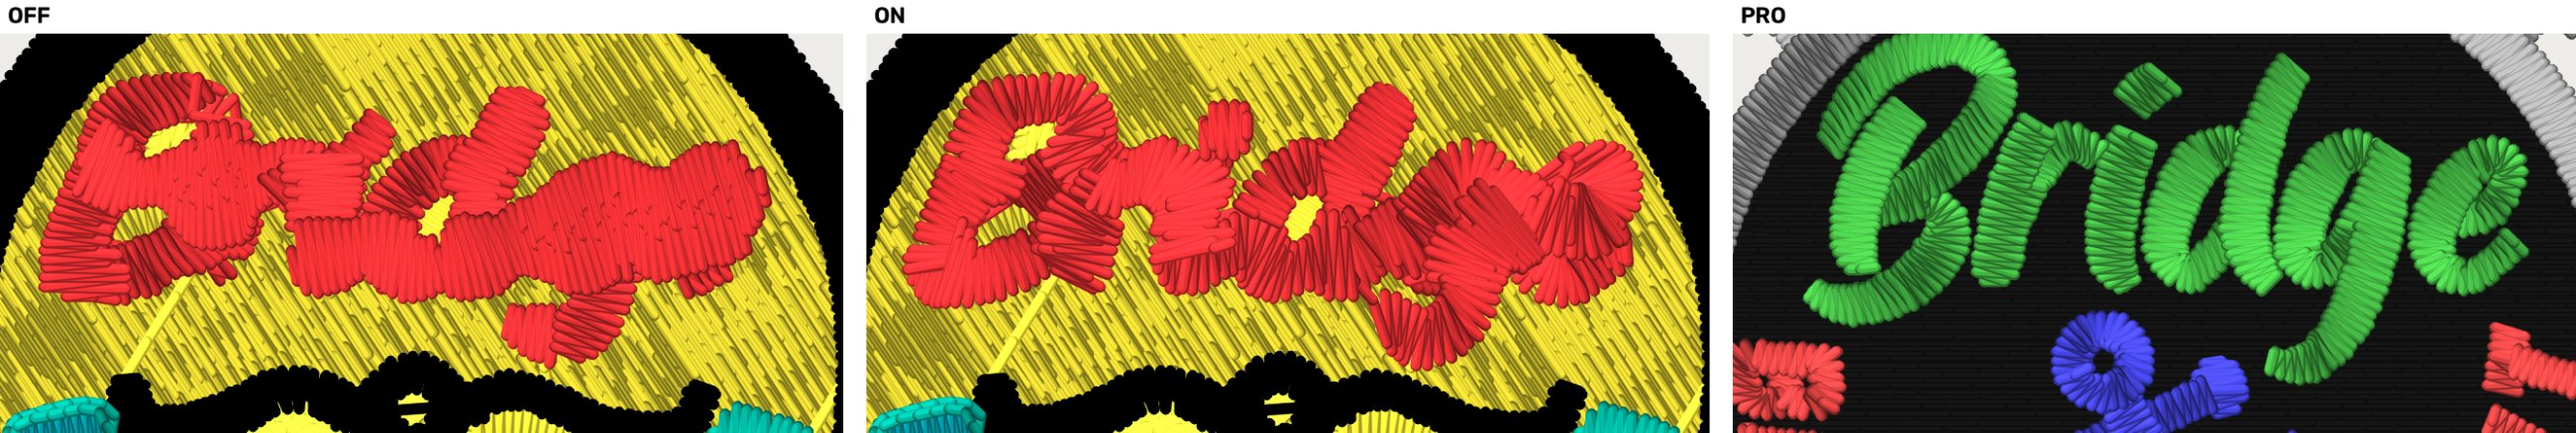
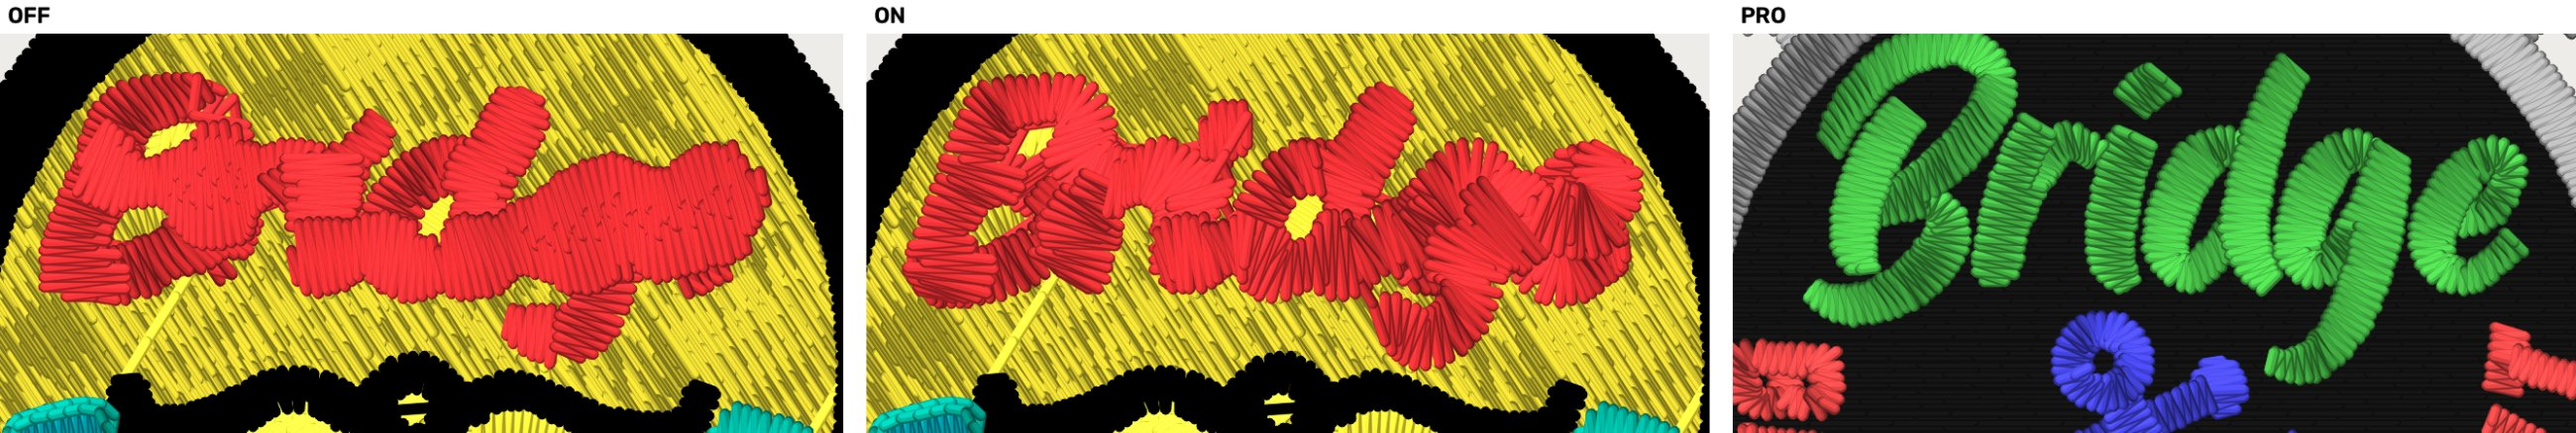
script_strokes: final renders and numbers on bde0f145

Changed region(s): [[0.3427, 0.1781, 0.6542, 0.8607], [0.4673, 0.2374, 0.5608, 0.2968], [0.5296, 0.1781, 0.5608, 0.2078]]

diff --git a/digitizer/digitizer_core/script_strokes.py b/digitizer/digitizer_core/script_strokes.py
@@ -935,7 +935,7 @@ def script_strokes_shape(poly: Polygon, shape_id: str, *, trim_at_mm: float,
     the earlier ones, so the needle crosses the word under thread still to
     come. Measured against sewing each stroke in turn, left to right: cuts
     inside the word 6 / 5 / 14 (Bridge hat / Tires / To a T hat) that way,
-    2 / 2 / 2 with the walk. Then `monoline.py`'s two clean-ups for a
+    0 / 1 / 1 with the walk. Then `monoline.py`'s two clean-ups for a
     joined word: underlay left on finished satin cut back, and any hop
     still cut routed under satin to come (`bury_hops`)."""
     from .columns import Column, column_runs

diff --git a/docs/renders/script-strokes-2026-10-26/README.md b/docs/renders/script-strokes-2026-10-26/README.md
@@ -2,7 +2,7 @@
 
 Kent's ruling, 2026-10-26: "Measure, then build OFF (Recommended)". A script
 word sewn one satin column per pen stroke, crosses square to the stroke, the
-pen path read on the artwork's own ink. Engine `ee2675d6` (this branch merged
+pen path read on the artwork's own ink. Engine `bde0f145` (this branch merged
 with main), each job built once and planned OFF and ON from the same
 generation; the pro's file beside it, each drawn in its own frame (crop by mm
 from each design's own top-left; the pro's DST has no colours).
@@ -19,16 +19,16 @@ from each design's own top-left; the pro's DST has no colours).
 | job | arm | stitches | runs | cuts | columns (+patches) | square to stroke | slanted dev | stacked overlap mm | coverage width mm |
 |---|---|---|---|---|---|---|---|---|---|
 | Bridge hat | OFF | 852 | 3 | 2 | 14 (+1) | 0.74 | -9.3 | 3.89 | 2.76 |
-| | ON | 754 | 3 | 2 | 13 (+7) | 0.84 | 0.5 | 0.66 | 2.60 |
+| | ON | 815 | 1 | 0 | 15 (+5) | 0.84 | -4.6 | 0.66 | 2.68 |
 | | pro | 905 | 6 | 7 | 18 (+2) | 0.77 | 3.0 | 0.00 | 1.96 |
 | Bridge LC | OFF | 1,251 | 2 | 1 | 23 | 0.77 | -9.9 | 5.32 | 3.00 |
-| | ON | 867 | 3 | 2 | 15 (+5) | 0.89 | -2.1 | 0.72 | 2.78 |
+| | ON | 981 | 3 | 2 | 16 (+2) | 0.87 | -2.6 | 1.84 | 2.80 |
 | | pro | 1,111 | 6 | 7 | 14 | 0.87 | -0.9 | 0.67 | 2.24 |
 | Tires "ires" | OFF | 6,428 | 5 | 4 | 21 (+4) (fill under a satin border) | 0.68 | -1.8 | 0.00 | 5.48 |
-| | ON | 2,853 | 4 | 2 | 11 (+5) | 0.95 | 0.3 | 0.00 | 5.20 |
+| | ON | 3,033 | 2 | 1 | 10 (+3) | 0.95 | 0.2 | 0.34 | 5.12 |
 | | pro | 3,337 | 3 | 3 | 9 (+2) | 0.85 | 0.3 | 0.39 | 4.64 |
 | Machine "achine" | OFF | 2,596 | 8 | 0 | 28 (+2) | 0.77 | -1.9 | 6.10 | 3.48 |
-| | ON | 1,705 | 4 | 0 | 26 (+6) | 0.84 | 0.5 | 1.02 | 3.36 |
+| | ON | 1,763 | 7 | 0 | 26 (+3) | 0.85 | -0.2 | 0.91 | 3.32 |
 | | pro | 1,956 | 7 | 0 | 20 (+3) | 0.90 | -7.3 | 0.00 | 3.28 |
 
 Coverage width: twice the distance transform's median on the ridge of the
@@ -41,16 +41,21 @@ smaller script pull is ROADMAP gate 1 and is not built.
 | job | arm | red on the art's ground mm2 | art counters sewn shut mm2 (of) | bare inside the word mm2 |
 |---|---|---|---|---|
 | Bridge hat | OFF | 36.5 | 4.84 (10.28) | 0.00 |
-| | ON | 39.7 | 3.92 | 0.00 |
+| | ON | 39.4 | 4.20 | 0.00 |
 | Bridge LC | OFF | 43.3 | 6.41 (15.41) | 0.47 |
-| | ON | 39.6 | 4.59 | 0.02 |
+| | ON | 39.8 | 4.74 | 0.01 |
 
 ## Whole design, bystanders
 
-Bridge hat 9,608 st / 30 trims -> 9,510 / 30; Bridge LC 15,278 / 38 ->
-14,894 / 39; Tires 8,205 / 8 -> 4,629 / 7 (pro 5,555 / 10); Machine hat
-8,450 / 47 -> 7,704 / 44. Byte-identical with the flag ON: Becker hat small,
-MFab hat, Hotel Fremont hat, Golden Tee hat (the door takes nothing there).
+Bridge hat 9,608 st / 30 trims -> 9,555 / 30; Bridge LC 15,278 / 38 ->
+15,011 / 39; Tires 8,205 / 8 -> 4,807 / 5 (pro 5,555 / 10); Machine hat
+8,450 / 47 -> 7,765 / 44. Stage 7's edge cap (a ring where satin leaves
+outline bare) rings nothing ON (Machine OFF had one). Bare inside the word:
+Tires 0.00 -> 0.20 mm2, Machine 0.53 -> 0.48.
+
+Byte-identical with the flag ON (measured on `ee2675d6`; the commit after
+it changes only code past the door): Becker hat small, MFab hat, Hotel
+Fremont hat, Golden Tee hat (the door takes nothing there).
 
 ## What it does not do
 
@@ -58,3 +63,15 @@ Bridge's "ge" stays a dense knot: at 63-77 mm the 400 px JPEG's trace fuses
 the letters and closes the g's and e's counters, and the yellow is knocked
 out under the word, so opening them would show bare cap. The pro also re-set
 Bridge in a taller font of his own — a design call no trace reproduces.
+
+## Word legibility (`tools/word_legibility.py`, chance-corrected cc at native size, n = 1 word per job)
+
+| job | OFF | ON | pro | note |
+|---|---|---|---|---|
+| Bridge hat | 0.83 | 0.35 | 1.00 | reach 0.70 -> 0.47 octaves (pro 1.78) |
+| Bridge LC | 0.28 | 0.52 | 1.00 | reach 0.20 -> 1.54 (pro 4.16) |
+| Tires | -0.27 | 0.14 | 0.00 | blind: the reader cannot read the art itself |
+| Machine hat | 0.24 | 0.47 | 0.00 | blind: the reader reads neither the art nor the pro |
+
+Mixed, one word a job, two of four blind: no legibility claim either way
+(ROADMAP gate 4).

diff --git a/.claude/memory/script-strokes-2026-10-26.md b/.claude/memory/script-strokes-2026-10-26.md
@@ -33,12 +33,13 @@ laptop (OFF 100 s) and "ge" stayed two slabs.
 
 **Built OFF, measured ON (one reader per file, the word's colour block;
 `docs/renders/script-strokes-2026-10-26/`):** square-to-stroke Bridge hat
-0.74 -> 0.84 (pro 0.77), LC 0.77 -> 0.89 (0.87), Tires 0.68 -> 0.95 (0.85),
-Machine 0.77 -> 0.84 (0.90); stacked overlap 3.89 / 5.32 / 6.10 -> 0.66 /
-0.72 / 1.02 mm (pro 0 / 0.67 / 0); Tires' word fill-in-a-border -> 11
-columns (pro 9), 6,428 -> 2,853 st (pro 3,337). Bridge LC reads as six
-letters; Bridge hat's "ge" stays a knot (trace). Bystanders Becker, MFab,
-Fremont, Golden Tee byte-identical ON.
+0.74 -> 0.84 (pro 0.77), LC 0.77 -> 0.87 (0.87), Tires 0.68 -> 0.95 (0.85),
+Machine 0.77 -> 0.85 (0.90); stacked overlap 3.89 / 5.32 / 6.10 -> 0.66 /
+1.84 / 0.91 mm (pro 0 / 0.67 / 0); Tires' word fill-in-a-border -> 10
+columns (pro 9), 6,428 -> 3,033 st (pro 3,337). Bridge LC reads as six
+letters; Bridge hat's "ge" stays a knot (trace). Legibility cc mixed (hat
+0.83 -> 0.35, LC 0.28 -> 0.52; n = 1, two of four blind): no claim.
+Bystanders Becker, MFab, Fremont, Golden Tee byte-identical ON.
 
 **Traps found:**
 - The trace CLOSED counters the art has (Bridge hat: g 1.28, e 0.57 + 0.61,
@@ -46,7 +47,7 @@ Fremont, Golden Tee byte-identical ON.
   ~0.8 mm underlap: 2.8 mm2 would show BARE CAP if a stroke opened them.
   So rails stay on the polygon; the pen PATH comes from the ink's core
   (t >= 0.85, where those counters are open), and a cross stops at the drawn
-  edge only where the polygon runs on > 0.4 mm past it (no fans), with a
+  edge only where it would run on into such a CLOSED counter (no fans), with a
   patch over what no stroke reaches.
 - An ink read at a flat 20 px/mm shattered Tires' 4.4 mm stroke (608 axis
   edges): read ~16 px across the stroke, and fall back to the polygon when
@@ -56,12 +57,18 @@ Fremont, Golden Tee byte-identical ON.
   one cross per pitch of the FASTER rail.
 - Sewing strokes one by one left to right cut the word 6 / 5 / 14 times
   (Bridge / Tires / Machine); the Column lane's Euler walk over the same
-  strokes: 2 / 2 / 1 (patches first). Order is not where the pro's look is.
+  strokes: 0 / 1 / 1 (patches first). Order is not where the pro's look is.
+- Free ends are not only skeleton ends: an end cut at a cusp, or whose only
+  neighbour was a dropped knot, must run on to its cap too, or stage 7's
+  EDGE CAP rings the bare outline (Tires' r) -- check `__edge_cap__` runs.
+- A photo trace runs past the ink along whole strokes (Tires' bevel): stop a
+  cross at the drawn edge only into a CLOSED pocket, never an open one.
 - A variable named `rd` in a Bash heredoc trips the worktree guard (reads as
   Windows `rd`).
-- My red changes the YELLOW block's cuts: `trim_bury_under_later` buries a
-  yellow hop only under real later thread, and three of OFF's buried hops
-  crossed the word.
+- The word can change the GROUND block's cuts: `trim_bury_under_later`
+  buries a yellow hop only under real later thread. With crosses one pitch
+  apart on the spine three of Bridge's buried yellow hops came back as cuts;
+  with the faster-rail pitch the yellow block is byte-identical again.
 
 Related: [[monoline-script-satin-2026-10-24]], [[bridge-border-and-script-2026-09-30]],
 [[lettering-architecture-2026-10-07]], [[column-corner-folds-2026-10-23]].
